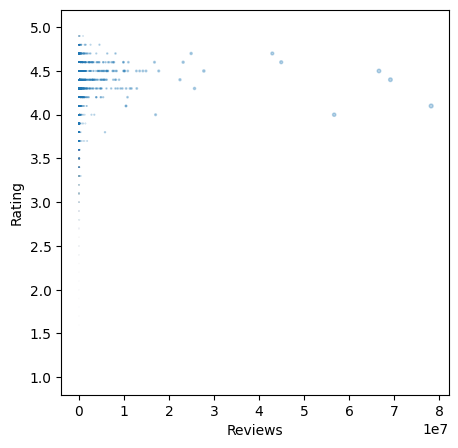
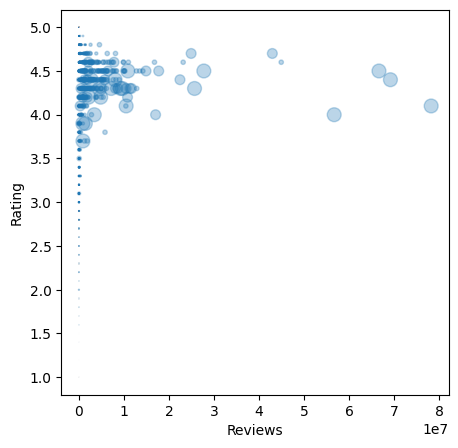
minor change on scatter plot code bubble area viz

diff --git a/app.py b/app.py
@@ -103,7 +103,7 @@ def index():
     # Ukuran scatter menggambarkan berapa banyak pengguna yang telah menginstall aplikasi 
     X = df2['Reviews'].values # axis x
     Y = df2['Rating'].values # axis y
-    area = playstore['Reviews'].values/10000000 # ukuran besar/kecilnya lingkaran scatter plot
+    area = playstore['Installs'].values/10000000 # ukuran besar/kecilnya lingkaran scatter plot
     fig = plt.figure(figsize=(5,5))
     fig.add_subplot()
     # isi nama method untuk scatter plot, variabel x, dan variabel y
